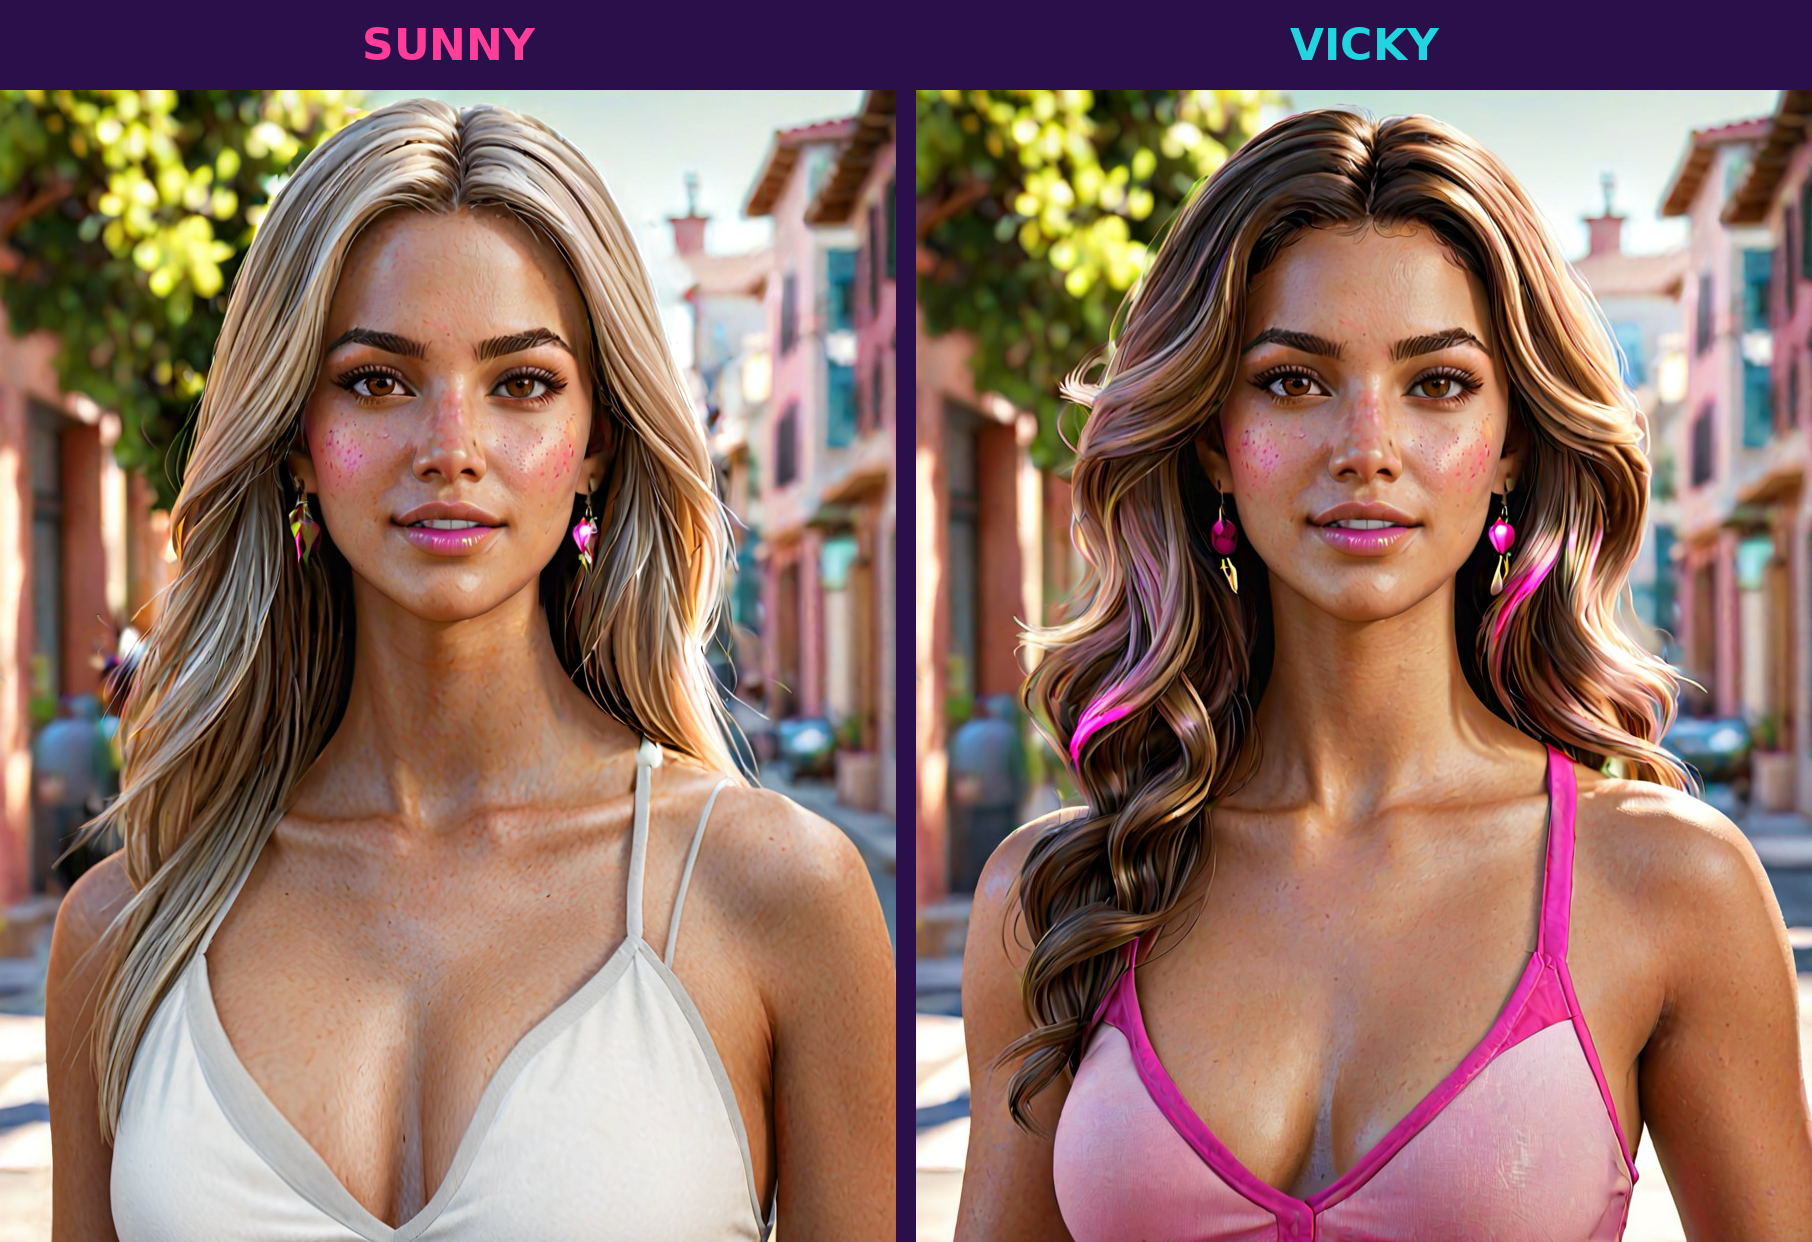
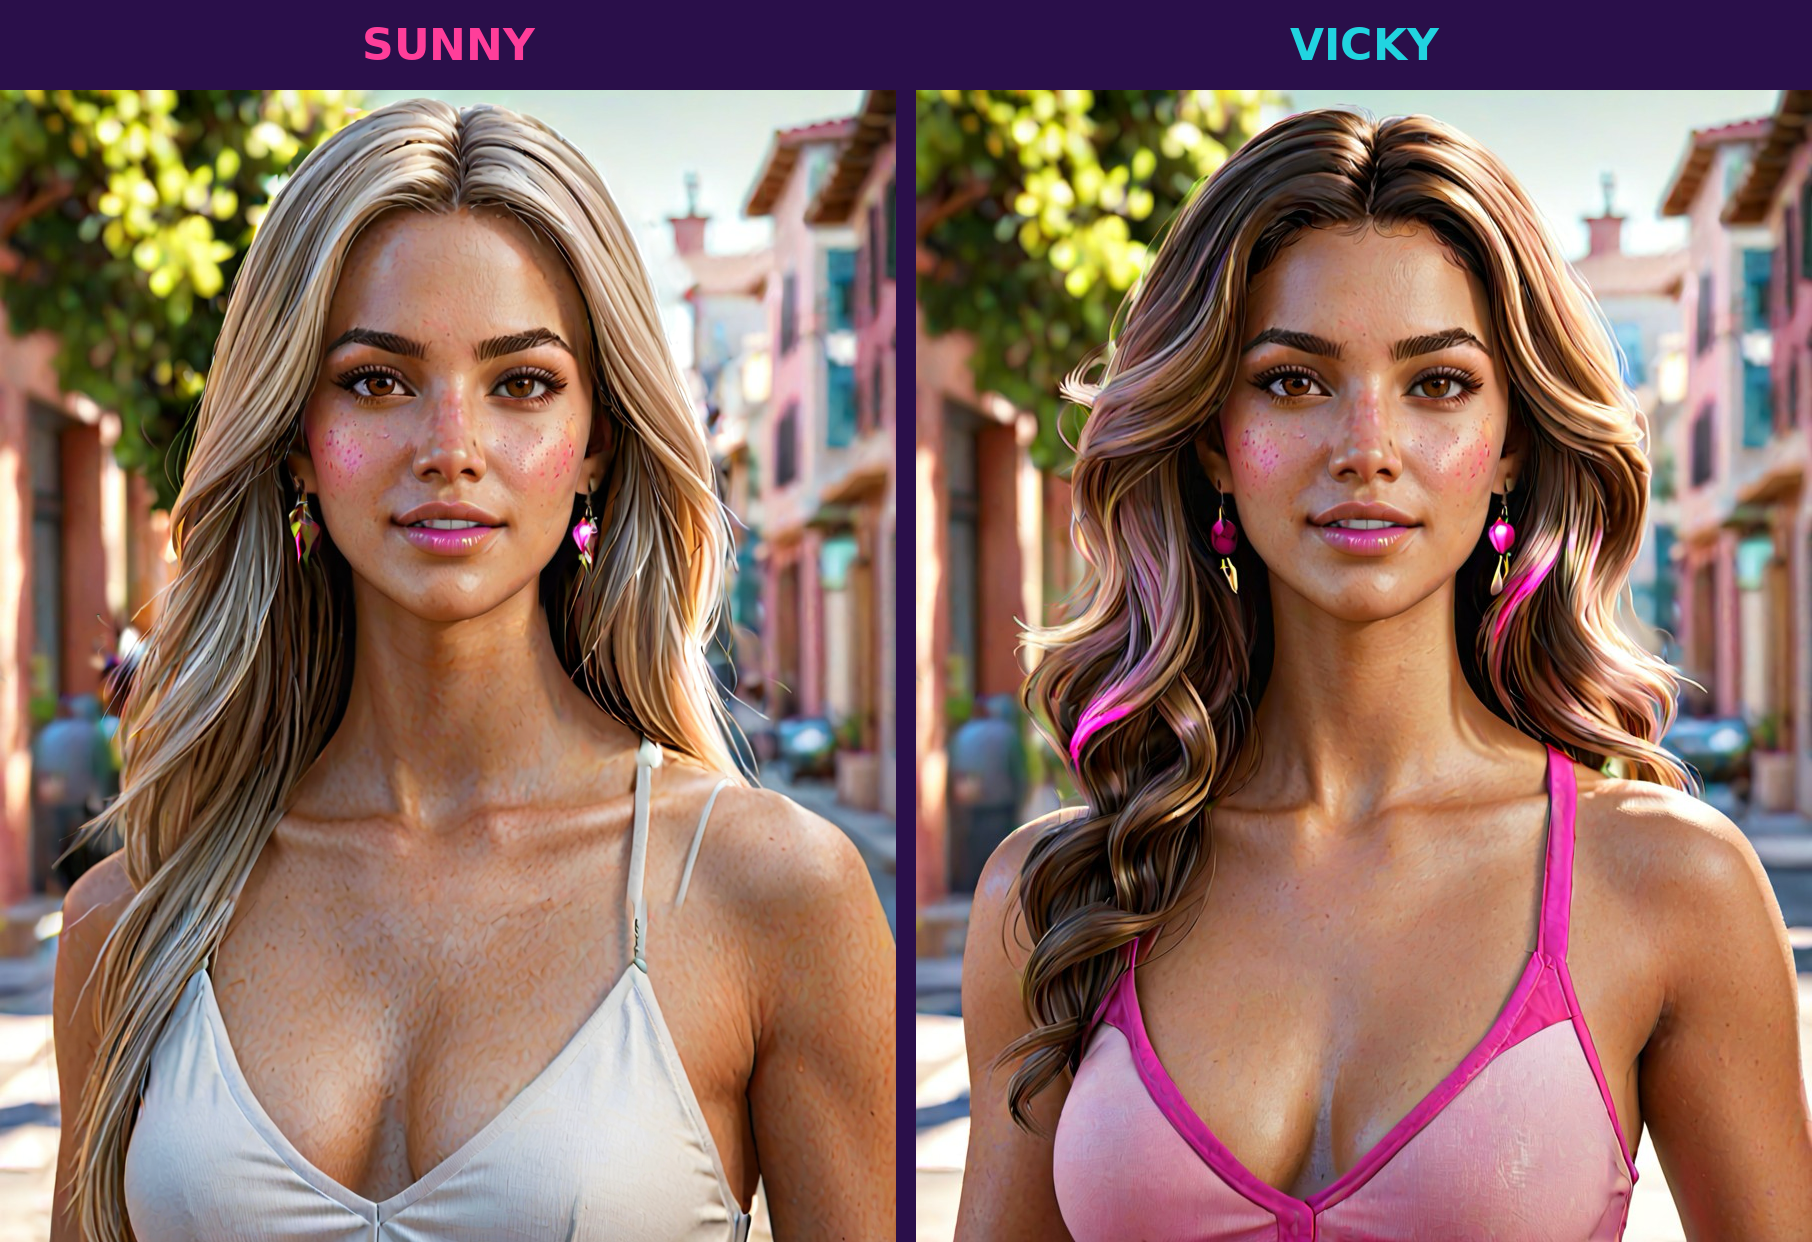
Sunny : poitrine plus ronde (retouche IA), suppression de l'effet loupe
Claude-Session: https://claude.ai/code/session_01BD2ZNdNirrTphS8qn6eUXX

Changed region(s): [[0.0, 0.7037, 0.4636, 1.0], [0.4636, 0.7343, 0.4945, 0.8261], [0.2781, 0.7037, 0.3091, 0.7343]]

diff --git a/05-production-sunny.md b/05-production-sunny.md
@@ -11,7 +11,7 @@
 > cd studio/avatar
 > python retoucher.py vicky.png etape1.png --haut-blanc --graine 5           # haut blanc + cheveux blonds lisses
 > python retoucher.py etape1.png etape2.png --buste --force 0.65 --graine 4  # nettoyage du haut
-> python gonfler.py etape2.png sunny.png --force 0.5 --rayon 260 --centres 285,1040 575,1040  # volume du buste
+> python retoucher.py etape2.png sunny.png --buste --force 0.85 --graine 7   # poitrine plus ronde et pleine
 > ```
 > Prérequis : `pip install torch diffusers transformers accelerate safetensors pillow rembg onnxruntime scipy`,
 > et l'accès réseau à huggingface.co (environnement « Gta6 »). `generer_sunny.py` crée de nouveaux
